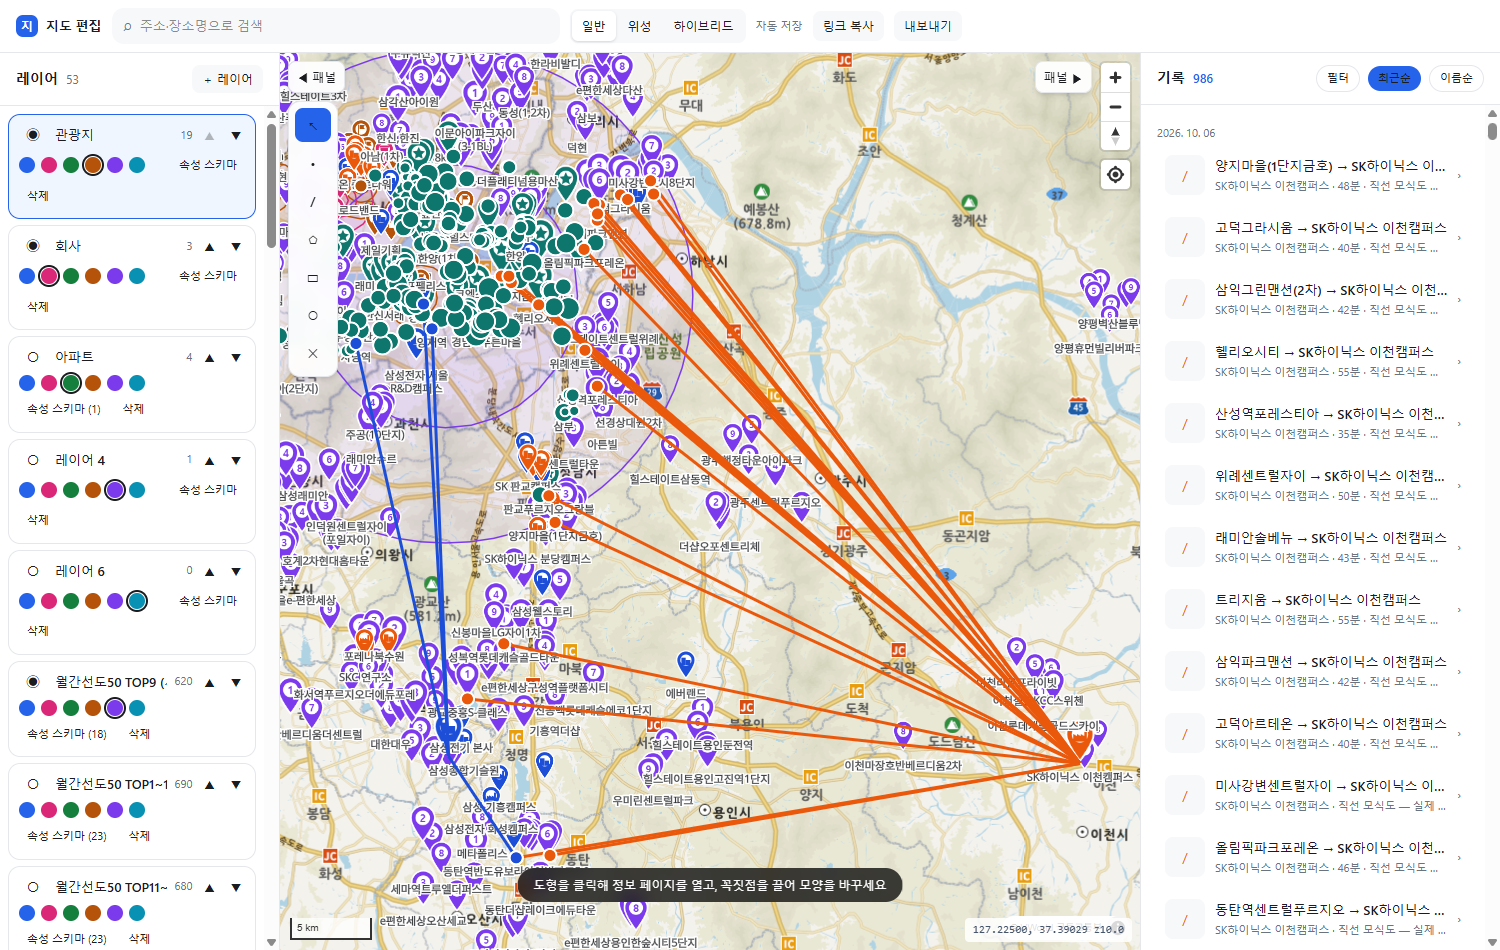
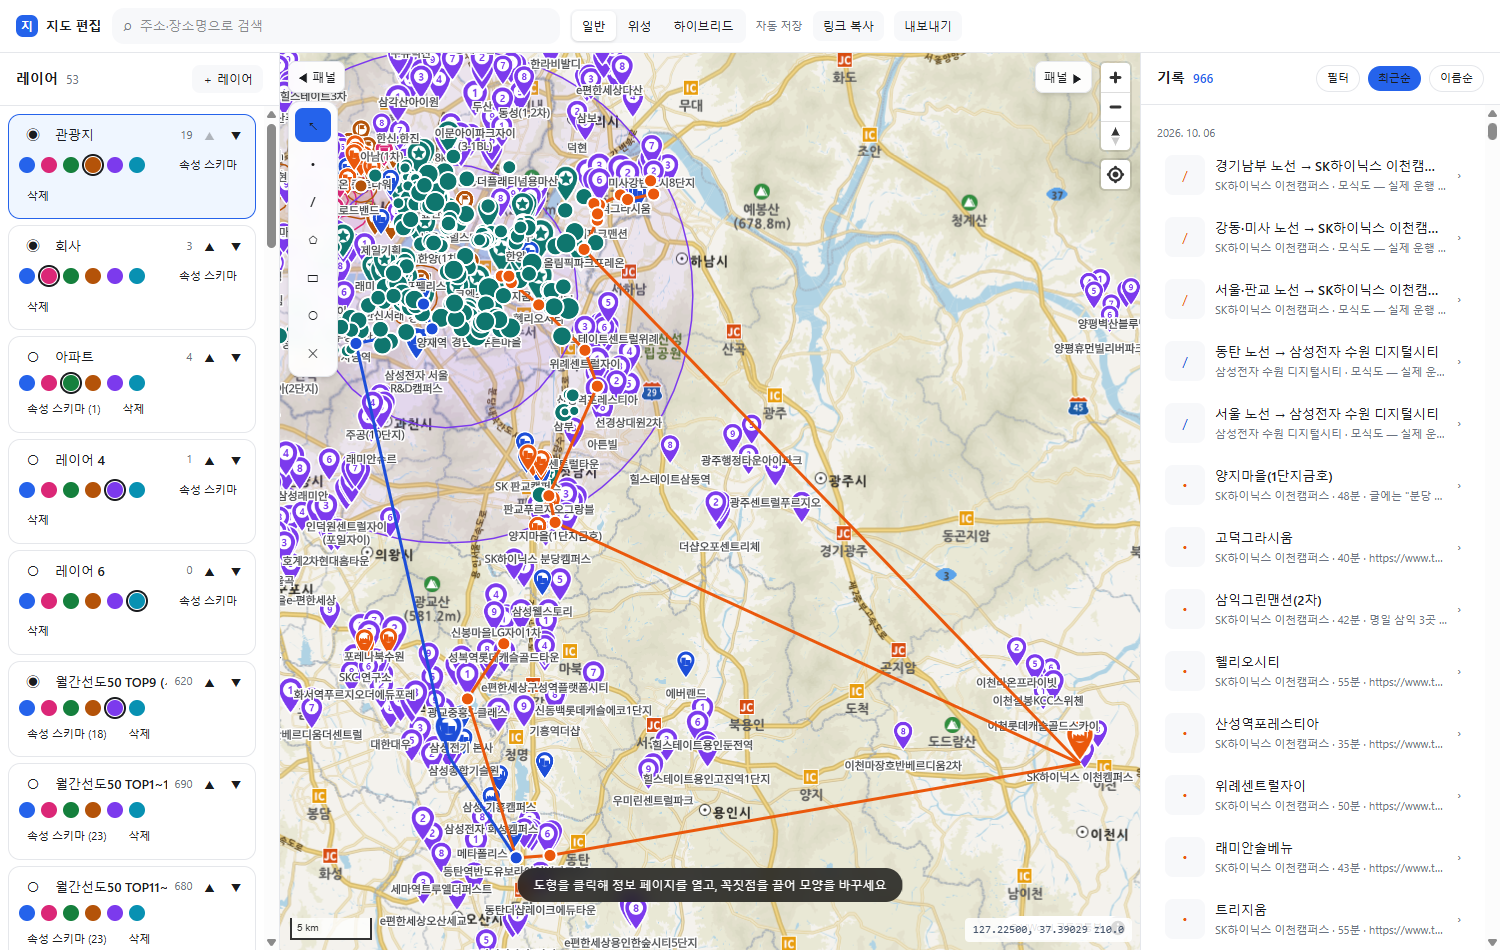
feat(shuttle): 정류장을 차례로 잇는 노선도 모양으로
탑승지마다 캠퍼스로 긋던 직선을, 노선(출처의 권역)별로 정류장을 이어 캠퍼스에서 끝나는 선 하나로 바꾼다.
순서는 출발 정류장을 모두 시도해 총길이가 가장 짧은 것 — 실제 운행 순서는 공개되지 않았다.

diff --git a/scripts/shuttle/stops.ts b/scripts/shuttle/stops.ts
@@ -6,6 +6,8 @@
  */
 export interface Stop {
   title: string
+  /** 노선 이름. 하이닉스는 출처(스레드 글)의 권역 묶음, 수원은 지역 — 실제 노선 구분은 모른다 */
+  route: string
   /** 소요시간(분). 범위로만 나오면 짧은 쪽 */
   minutes?: number
   source: string
@@ -23,34 +25,34 @@ const CREDIT = 'https://www.creditnews.kr/news/articleView.html?idxno=2745'
 const CLIEN = 'https://www.clien.net/service/board/kin/679697'
 
 const HYNIX: Stop[] = [
-  { title: '잠실엘스', feature: '잠실엘스', minutes: 55, source: THREADS, note: '스레드 글(2026-04-15) "잠실 엘스·리센츠·트리지움 55분"' },
-  { title: '리센츠', feature: '리센츠', minutes: 55, source: THREADS },
-  { title: '트리지움', feature: '트리지움', minutes: 55, source: THREADS },
-  { title: '헬리오시티', feature: '헬리오시티', minutes: 55, source: THREADS },
-  { title: '판교푸르지오그랑블', feature: '판교푸르지오그랑블', minutes: 53, source: THREADS, note: '글에는 "판교 백현8단지 / 푸르지오그랑블" — 백현8단지는 위치를 확정하지 못해 뺐다' },
-  { title: '위례센트럴자이', feature: '위례센트럴자이', minutes: 50, source: THREADS },
-  { title: '양지마을(1단지금호)', feature: '양지마을(1단지금호)', minutes: 48, source: THREADS, note: '글에는 "분당 수내 양지마을" — 단지는 특정되지 않아 1단지에 찍었다' },
-  { title: '산성역포레스티아', feature: '산성역포레스티아', minutes: 35, source: THREADS },
-  { title: '고덕그라시움', feature: '고덕그라시움', minutes: 40, source: THREADS },
-  { title: '고덕아르테온', feature: '고덕아르테온', minutes: 40, source: THREADS },
-  { title: '래미안솔베뉴', feature: '래미안솔베뉴', minutes: 43, source: THREADS },
-  { title: '삼익그린맨션(2차)', feature: '삼익그린맨션(2차)', minutes: 42, source: THREADS, note: '명일 삼익 3곳 42~45분' },
-  { title: '삼익맨션', feature: '삼익맨션', minutes: 42, source: THREADS, note: '명일 삼익 3곳 42~45분' },
-  { title: '삼익파크맨션', feature: '삼익파크맨션', minutes: 42, source: THREADS, note: '명일 삼익 3곳 42~45분' },
-  { title: '올림픽파크포레온', address: '서울특별시 강동구 양재대로 1300', minutes: 46, source: THREADS },
-  { title: '미사강변푸르지오', feature: '미사강변푸르지오', minutes: 46, source: THREADS, note: '글에는 "하남 미사 푸르지오" — 같은 이름 단지가 여럿일 수 있다' },
-  { title: '광교중흥S-클래스', feature: '광교중흥S-클래스', minutes: 42, source: THREADS },
-  { title: '성복역롯데캐슬골드타운', feature: '성복역롯데캐슬골드타운', minutes: 44, source: THREADS, note: '기사(2026-04-20): 삼성전자·하이닉스 셔틀이 모두 정차' },
-  { title: '미사강변센트럴자이', feature: '미사강변센트럴자이', source: CREDIT, note: '기사(2026-04-20), 소요시간 없음' },
-  { title: '동탄역반도유보라아이비파크5.0', address: '경기도 화성시 동탄구 동탄기흥로 393-15', source: CREDIT, note: '기사(2026-04-20): 하이닉스 이천·삼성 화성·수원 셔틀 3개 노선이 교차' },
-  { title: '동탄역센트럴푸르지오', address: '경기도 화성시 동탄구 동탄순환대로21길 54', source: CREDIT, note: '기사에는 "센트럴푸르지오"(동탄) — 동탄역센트럴푸르지오로 보았다' },
+  { title: '잠실엘스', route: '서울·판교', feature: '잠실엘스', minutes: 55, source: THREADS, note: '스레드 글(2026-04-15) "잠실 엘스·리센츠·트리지움 55분"' },
+  { title: '리센츠', route: '서울·판교', feature: '리센츠', minutes: 55, source: THREADS },
+  { title: '트리지움', route: '서울·판교', feature: '트리지움', minutes: 55, source: THREADS },
+  { title: '헬리오시티', route: '서울·판교', feature: '헬리오시티', minutes: 55, source: THREADS },
+  { title: '판교푸르지오그랑블', route: '서울·판교', feature: '판교푸르지오그랑블', minutes: 53, source: THREADS, note: '글에는 "판교 백현8단지 / 푸르지오그랑블" — 백현8단지는 위치를 확정하지 못해 뺐다' },
+  { title: '위례센트럴자이', route: '서울·판교', feature: '위례센트럴자이', minutes: 50, source: THREADS },
+  { title: '양지마을(1단지금호)', route: '서울·판교', feature: '양지마을(1단지금호)', minutes: 48, source: THREADS, note: '글에는 "분당 수내 양지마을" — 단지는 특정되지 않아 1단지에 찍었다' },
+  { title: '산성역포레스티아', route: '서울·판교', feature: '산성역포레스티아', minutes: 35, source: THREADS },
+  { title: '고덕그라시움', route: '강동·미사', feature: '고덕그라시움', minutes: 40, source: THREADS },
+  { title: '고덕아르테온', route: '강동·미사', feature: '고덕아르테온', minutes: 40, source: THREADS },
+  { title: '래미안솔베뉴', route: '강동·미사', feature: '래미안솔베뉴', minutes: 43, source: THREADS },
+  { title: '삼익그린맨션(2차)', route: '강동·미사', feature: '삼익그린맨션(2차)', minutes: 42, source: THREADS, note: '명일 삼익 3곳 42~45분' },
+  { title: '삼익맨션', route: '강동·미사', feature: '삼익맨션', minutes: 42, source: THREADS, note: '명일 삼익 3곳 42~45분' },
+  { title: '삼익파크맨션', route: '강동·미사', feature: '삼익파크맨션', minutes: 42, source: THREADS, note: '명일 삼익 3곳 42~45분' },
+  { title: '올림픽파크포레온', route: '강동·미사', address: '서울특별시 강동구 양재대로 1300', minutes: 46, source: THREADS },
+  { title: '미사강변푸르지오', route: '강동·미사', feature: '미사강변푸르지오', minutes: 46, source: THREADS, note: '글에는 "하남 미사 푸르지오" — 같은 이름 단지가 여럿일 수 있다' },
+  { title: '광교중흥S-클래스', route: '경기남부', feature: '광교중흥S-클래스', minutes: 42, source: THREADS },
+  { title: '성복역롯데캐슬골드타운', route: '경기남부', feature: '성복역롯데캐슬골드타운', minutes: 44, source: THREADS, note: '기사(2026-04-20): 삼성전자·하이닉스 셔틀이 모두 정차' },
+  { title: '미사강변센트럴자이', route: '강동·미사', feature: '미사강변센트럴자이', source: CREDIT, note: '기사(2026-04-20), 소요시간 없음' },
+  { title: '동탄역반도유보라아이비파크5.0', route: '경기남부', address: '경기도 화성시 동탄구 동탄기흥로 393-15', source: CREDIT, note: '기사(2026-04-20): 하이닉스 이천·삼성 화성·수원 셔틀 3개 노선이 교차' },
+  { title: '동탄역센트럴푸르지오', route: '경기남부', address: '경기도 화성시 동탄구 동탄순환대로21길 54', source: CREDIT, note: '기사에는 "센트럴푸르지오"(동탄) — 동탄역센트럴푸르지오로 보았다' },
 ]
 
 const SUWON: Stop[] = [
-  { title: '강남역', feature: '강남', layerPrefix: 'lyr_line_02', source: 'https://shuttle-go.com/page/gangnam-station-samsung-electronics-suwon-morning-shuttle/', note: '셔틀Go "강남역 2호선 → 삼성전자 수원 사업장 출근 버스". 정류장 위치는 역으로 갈음' },
-  { title: '양재역', feature: '양재', layerPrefix: 'lyr_line_03', minutes: 30, source: CLIEN, note: '커뮤니티 글: 양재에서 30~40분. 지역만 알려져 역에 찍었다' },
-  { title: '사당역', feature: '사당', layerPrefix: 'lyr_line_02', source: CLIEN, note: '커뮤니티 글에 탑승 지역으로만 나온다. 역에 찍었다' },
-  { title: '동탄역반도유보라아이비파크5.0', address: '경기도 화성시 동탄구 동탄기흥로 393-15', source: CREDIT, note: '기사(2026-04-20): 하이닉스 이천·삼성 화성·수원 셔틀 3개 노선이 교차' },
+  { title: '강남역', route: '서울', feature: '강남', layerPrefix: 'lyr_line_02', source: 'https://shuttle-go.com/page/gangnam-station-samsung-electronics-suwon-morning-shuttle/', note: '셔틀Go "강남역 2호선 → 삼성전자 수원 사업장 출근 버스". 정류장 위치는 역으로 갈음' },
+  { title: '양재역', route: '서울', feature: '양재', layerPrefix: 'lyr_line_03', minutes: 30, source: CLIEN, note: '커뮤니티 글: 양재에서 30~40분. 지역만 알려져 역에 찍었다' },
+  { title: '사당역', route: '서울', feature: '사당', layerPrefix: 'lyr_line_02', source: CLIEN, note: '커뮤니티 글에 탑승 지역으로만 나온다. 역에 찍었다' },
+  { title: '동탄역반도유보라아이비파크5.0', route: '동탄', address: '경기도 화성시 동탄구 동탄기흥로 393-15', source: CREDIT, note: '기사(2026-04-20): 하이닉스 이천·삼성 화성·수원 셔틀 3개 노선이 교차' },
 ]
 
 export const GROUPS: StopGroup[] = [

diff --git a/scripts/shuttle/run.ts b/scripts/shuttle/run.ts
@@ -2,11 +2,13 @@
  * 셔틀 탑승지 레이어 동기화 — stops.ts 의 단지·역을 점으로 쓴다.
  *   node scripts/shuttle/run.ts <projectId> [--dry-run]
  * 좌표는 프로젝트에 이미 있는 같은 이름 도형(원본, derived 아님)에서 복사하거나 VWorld 지오코딩(좌표만 저장 — 불변 규칙 1).
- * 탑승지마다 캠퍼스(사업장 레이어의 같은 제목 도형)까지 **직선** 노선을 같이 쓴다 — 실제 운행 경로는 공개되지 않아 모식도다.
+ * 노선(stops.ts 의 route)마다 정류장을 차례로 이어 캠퍼스(사업장 레이어의 같은 제목 도형)에서 끝나는 선을 같이 쓴다 (버스 노선도 모양).
+ * 실제 운행 경로·정류 순서는 공개되지 않아 모식도다 — 순서는 총길이가 짧게 나오도록 고른다 (chain).
  * 레이어는 스크립트 소유 — stops.ts 에 없는 도형은 지운다.
  */
 import { createHash } from 'node:crypto'
 import { fileURLToPath } from 'node:url'
+import { distance } from '@turf/turf'
 import { ensureLayer, findLayer, readLayerFeatures, readLayers, supabaseClient, upsertFeatures } from '../lead50/sb.ts'
 import type { FeatureRow } from '../../src/db/mappers.ts'
 import type { PropertySchemaField } from '../../src/types.ts'
@@ -44,7 +46,7 @@ const dryRun = process.argv.includes('--dry-run')
 const sb = supabaseClient(projectId)
 const layers = await readLayers(sb, projectId)
 
-async function locate(s: Stop): Promise<[number, number] | null> {
+async function locate(s: Pick<Stop, 'feature' | 'layerPrefix' | 'address'>): Promise<[number, number] | null> {
   if (s.address) return geocode(s.address, key!)
   const rows = (await sb(`features?project_id=eq.${projectId}&derived_from=is.null&title=eq.${encodeURIComponent(s.feature!)}&select=layer_id,geometry`)) as Pick<FeatureRow, 'layer_id' | 'geometry'>[]
   for (const r of rows) {
@@ -53,15 +55,40 @@ async function locate(s: Stop): Promise<[number, number] | null> {
   return null
 }
 
+/**
+ * 정류장을 잇는 순서 — 출발 정류장마다 "가장 가까운 다음 정류장" 으로 이어 보고 캠퍼스까지 총길이가 가장 짧은 것.
+ * 마지막은 캠퍼스. 같은 좌표 정류장은 하나로 친다.
+ */
+function chain(points: [number, number][], campus: [number, number]): [number, number][] {
+  const uniq = points.filter((p, i) => points.findIndex((q) => q[0] === p[0] && q[1] === p[1]) === i)
+  let best: [number, number][] = []
+  let bestLen = Infinity
+  for (const start of uniq) {
+    const left = uniq.filter((p) => p !== start)
+    const out = [start]
+    while (left.length) {
+      const cur = out[out.length - 1]
+      const next = left.reduce((a, b) => (distance(cur, b) < distance(cur, a) ? b : a))
+      left.splice(left.indexOf(next), 1)
+      out.push(next)
+    }
+    out.push(campus)
+    const len = out.slice(1).reduce((sum, p, i) => sum + distance(out[i], p), 0)
+    if (len < bestLen) { best = out; bestLen = len }
+  }
+  return best
+}
+
 const now = new Date().toISOString()
 const failed: string[] = []
 for (const g of GROUPS) {
   const existed = findLayer(layers, g.layer)
   const layer = await ensureLayer(sb, projectId, layers, { name: g.layer, color: g.color, visible: true }, `lyr_shuttle_${g.idPrefix}_${projectId.slice(0, 8)}`, dryRun, stopSchema)
   const old = existed ? await readLayerFeatures(sb, existed.id) : []
-  const campus = (await locate({ title: g.campus, feature: g.campus, layerPrefix: 'lyr_site_', source: '' }))
+  const campus = (await locate({ feature: g.campus, layerPrefix: 'lyr_site_' }))
   if (!campus) throw new Error(`사업장 레이어에 "${g.campus}" 가 없다 — scripts/sites/run.ts 를 먼저 돌려라`)
   const rows: FeatureRow[] = []
+  const byRoute = new Map<string, { title: string; point: [number, number] }[]>()
   for (const s of g.stops) {
     const point = await locate(s)
     console.log(`${point ? 'OK ' : 'XX '} ${s.title} ← ${s.address ?? s.feature} ${point ? `[${point}]` : '실패'}`)
@@ -76,13 +103,19 @@ for (const g of GROUPS) {
       geometry: { type: 'Point', coordinates: point }, title: s.title, properties,
       blocks: prev?.blocks ?? [], derived_from: null, created_at: prev?.created_at ?? now, updated_at: now,
     })
-    const lineId = `${id}_line`
-    const prevLine = old.find((f) => f.id === lineId)
+    byRoute.set(s.route, [...(byRoute.get(s.route) ?? []), { title: s.title, point }])
+  }
+  for (const [route, stops] of byRoute) {
+    const coords = chain(stops.map((s) => s.point), campus)
+    const order = coords.slice(0, -1).map((c) => stops.find((s) => s.point[0] === c[0] && s.point[1] === c[1])!.title)
+    const id = `ftr_shuttle_${g.idPrefix}_route_${createHash('sha1').update(route).digest('hex').slice(0, 10)}`
+    const prev = old.find((f) => f.id === id)
+    console.log(`노선 ${route}: ${order.join(' → ')} → ${g.campus}`)
     rows.push({
-      id: lineId, project_id: projectId, layer_id: layer.id, parent_id: null,
-      geometry: { type: 'LineString', coordinates: [point, campus] }, title: `${s.title} → ${g.campus}`,
-      properties: { ...properties, note: ['직선 모식도 — 실제 운행 경로 아님', s.note].filter(Boolean).join('. ') },
-      blocks: prevLine?.blocks ?? [], derived_from: null, created_at: prevLine?.created_at ?? now, updated_at: now,
+      id, project_id: projectId, layer_id: layer.id, parent_id: null,
+      geometry: { type: 'LineString', coordinates: coords }, title: `${route} 노선 → ${g.campus}`,
+      properties: { campus: g.campus, source: [...new Set(g.stops.filter((s) => s.route === route).map((s) => s.source))].join(' '), note: `모식도 — 실제 운행 경로·순서 아님. ${order.join(' → ')}` },
+      blocks: prev?.blocks ?? [], derived_from: null, created_at: prev?.created_at ?? now, updated_at: now,
     })
   }
   const keep = new Set(rows.map((r) => r.id))
